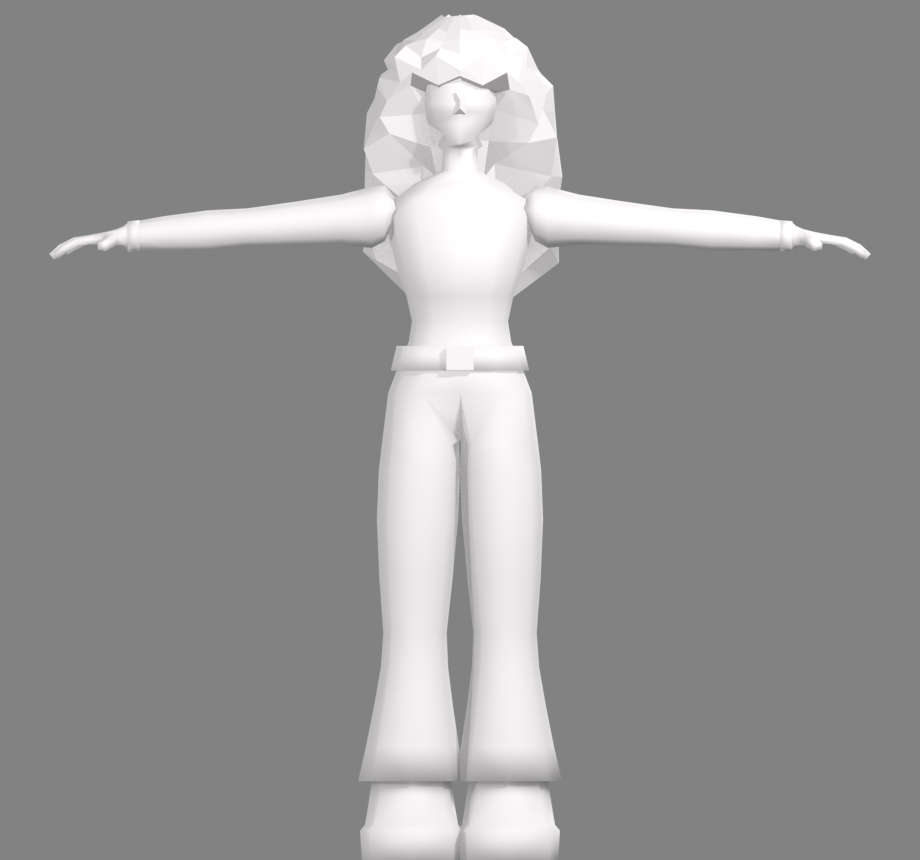
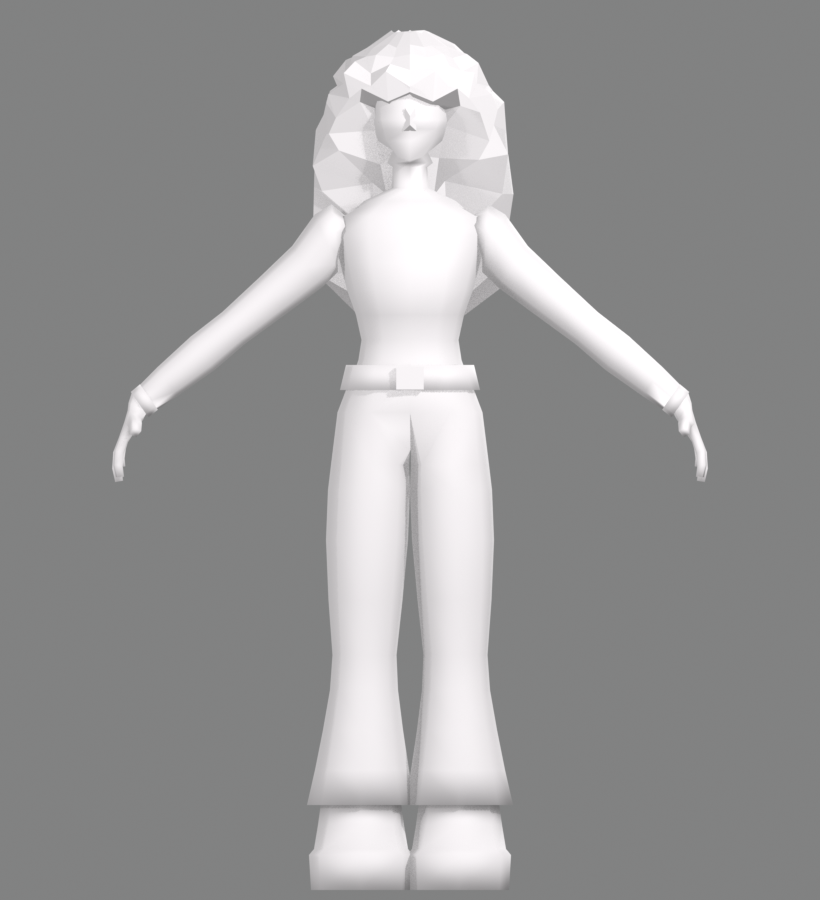
Pose the welded mesh: 35 deg arm drop + 25 deg wrist break, fix the seat fin, harden the harnesses
The two v2 reference bases ship A-pose, so the build now poses after the last weld: a per-ring drop of the arm about the shoulder socket and a rigid hand turn about the wrist seam, both before mirroring. The wrist break is what makes a hanging hand read as a hand.

Crotch points moved onto the buttock line: the old rear point sat 8 cm forward of the seat, so the buttock closed with an edge-on quad that rendered as a fin.

preview.py: relink lights/camera if the datablock lost its scene link (a leaked study scene once turned a render pass black), frame from both bbox dimensions, and stop rendering on import so importlib.reload does not triple-run the set.

diff --git a/scripts/preview.py b/scripts/preview.py
@@ -8,6 +8,7 @@ prop. Override SHOTS if you want specific framings.
 
     import bpy
     for f in ("scripts/psx_build.py", "scripts/preview.py"): ...
+    preview.run()
 """
 import bpy
 import math
@@ -44,6 +45,10 @@ def setup(sc):
         if not ob:
             ob = bpy.data.objects.new(name, light)
             sc.collection.objects.link(ob)
+        elif ob.name not in sc.objects:
+            # the light datablock can outlive its scene link (a leaked temp scene did
+            # this once) and every render then comes out black — relink it
+            sc.collection.objects.link(ob)
         ob.location = loc
         ob.rotation_euler = (V((0, 0, 1.1)) - V(loc)).to_track_quat("-Z", "Y").to_euler()
 
@@ -52,6 +57,7 @@ def shot(sc, name, center, ortho, azim, elev=0.0, res=(560, 860)):
     cam = bpy.data.objects.get("PrevCam")
     if not cam:
         cam = bpy.data.objects.new("PrevCam", bpy.data.cameras.new("PrevCam"))
+    if cam.name not in sc.objects:
         sc.collection.objects.link(cam)
     cam.data.type = "ORTHO"
     cam.data.ortho_scale = ortho
@@ -69,9 +75,11 @@ def shot(sc, name, center, ortho, azim, elev=0.0, res=(560, 860)):
     print("shot", name)
 
 
-def auto_shots(h):
+def auto_shots(h, w):
     res = (560, 860)
-    shots = [("body_" + nm, (0, 0, h * 0.5), h * 1.10, az, 0, res)
+    # ortho_scale follows the LONGER resolution side (here: height), so fit both dims
+    ortho = 1.10 * max(h, w * res[1] / res[0])
+    shots = [("body_" + nm, (0, 0, h * 0.5), ortho, az, 0, res)
              for nm, az in (("front", 0), ("side", 90), ("back", 180), ("q34", 35))]
     shots.append(("closeup_upper", (0, 0, h * 0.86), h * 0.34, 35, 0, (520, 600)))
     shots.append(("closeup_lower", (0, 0, h * 0.16), h * 0.34, 35, 0, (520, 600)))
@@ -85,6 +93,7 @@ def run():
     ob = bpy.data.objects[OBJECT]
     bb = [ob.matrix_world @ V(c) for c in ob.bound_box]
     h = max(p.z for p in bb) - min(p.z for p in bb)
+    w = max(p.x for p in bb) - min(p.x for p in bb)
 
     clay = bpy.data.materials.get("Clay") or bpy.data.materials.new("Clay")
     clay.use_nodes = True
@@ -93,11 +102,8 @@ def run():
     bsdf.inputs["Roughness"].default_value = 0.68
     sc.view_layers[0].material_override = clay
 
-    for s in (SHOTS if SHOTS is not None else auto_shots(h)):
+    for s in (SHOTS if SHOTS is not None else auto_shots(h, w)):
         shot(sc, *s)
 
     sc.view_layers[0].material_override = None
     print("preview ->", OUT)
-
-
-run()

diff --git a/SKILL.md b/SKILL.md
@@ -22,7 +22,10 @@ on silhouette and edge flow — never on surface detail.
 - One connected surface for the body: no loose vertices, no loose edges, no zero-area
   faces, no non-manifold edges, no coincident vertices. Quads for shells, triangles only
   where a shape needs them (joint bands, tips).
-- A T-pose body at rest, so the joints can be welded cleanly and a rig has room.
+- **Build** in a T-pose — level rings make every cut and weld trivial — then **pose the
+  finished, welded mesh** before saving: a rigid per-ring drop of the arms (35° about the
+  shoulder socket, ramped along the arm) and a rigid hand turn about the wrist seam (25°).
+  Every reference ships A-pose at rest, and a T-pose base reads as an unshipped blockout.
 
 Budgets from five reference models:
 
@@ -205,9 +208,10 @@ one part that should be allowed to be asymmetric — an identical mirror looks l
 8. **A single-apex pyramid is not a nose.** Read as a thin sliver from the front. Use a
    six-vertex wedge with a separate bridge point and tip point, base closed so the head
    stays watertight.
-9. **Frame the whole pose.** A T-pose spans about the character's height; an ortho scale
+9. **Frame the whole pose.** A wide pose spans about the character's height; an ortho scale
    that frames the torso crops the hands off and hides every hand problem. Set the render
-   width from the bbox, not from habit.
+   width from the bbox, not from habit — and re-frame after posing, because the bounds
+   move (1.86 ortho for the T-pose became 1.80 at 820 × 900 for the A-pose).
 10. **Normalise every direction vector** before scaling by a length. An unnormalised one
     produced a 1 m thumb.
 11. **`mirror_x` takes `(len(v), len(f))` from `mark()`**, reverses the mirrored winding,
@@ -224,13 +228,28 @@ one part that should be allowed to be asymmetric — an identical mirror looks l
     shot frames empty background.
 15. **Run the gate on geometry, not on the render.** A degenerate quad looks fine in a
     front view and wrecks the wireframe.
+16. **Pose the welded mesh, don't model it posed.** Build level (easy cuts, easy welds),
+    then rotate the finished blocks: an arm drop whose angle ramps along x, plus a rigid
+    hand turn about the wrist seam. Limb rings lie in planes of constant x, so a per-ring
+    angle cannot pinch a loop — the stitch bands take the rest, and mirroring *after*
+    posing gives the other side for free. The wrist break is what makes a hanging hand read
+    as a hand instead of a paddle continuing the forearm.
+17. **Crotch points belong in the cleft.** A rear crotch point sitting several cm forward of
+    the seat closes the buttock with a quad that folds edge-on and renders as a sharp fin
+    on the seat. Put it on the buttock line (y ≈ 0.07, z ≈ 0.89, front point mirrored in y)
+    and the seat closes with a small triangle instead.
+18. **Never let a temp study scene stay active.** A ref-study run that died between
+    `scenes.new()` and its cleanup left that scene active; the next build landed in it —
+    no lights, no camera — and a render pass came out black. Tear temp scenes down in a
+    `finally` at the call site, no global `orphans_purge`, and check the live scene's
+    object list afterwards.
 
 ## Review pass
 
 Render, then look, in this order:
 
 - **Close-ups first** — every seam at 0.20–0.32 ortho, two angles each. Joints are where
-  the errors are; a full-body shot at 1.86 ortho cannot show a 10 mm fold.
+  the errors are; a full-body shot at 1.80 ortho cannot show a 10 mm fold.
 - Body front / side / back / three-quarter at an ortho scale that fits the whole pose.
 - Hand and head separately, against the reference art at matched scale.
 - Wireframe or `check()` output next to every render pass.
@@ -240,8 +259,9 @@ material, UVs inside 0–1, object transform identity.
 
 ## Worked example — one real character
 
-A 1.72 m gothic girl, T-pose, mesh only, built and welded with this library:
-**1127 verts / 1223 faces / 2228 tris — 1003 quads, 225 tris, 0 n-gons, 0 boundary
+A 1.72 m gothic girl, mesh only, built and welded with this library in T-pose, then posed
+to A-pose (35° arm drop, 25° wrist break) after the last weld:
+**1127 verts / 1223 faces / 2228 tris — 1005 quads, 218 tris, 0 n-gons, 0 boundary
 edges, 0 non-manifold edges, 0 coincident verts.** Torso, pelvis, both legs, both boots,
 both arms, both hands, neck and head are one closed shell; the mane is a second closed
 shell.

diff --git a/README.md b/README.md
@@ -66,8 +66,8 @@ silhouette and where the surfaces meet, not on surface detail.
 
 | | |
 |---|---|
-| ![T-pose front](images/body_front.png) | ![three-quarter](images/body_q34.png) |
-| Front, 1.72 m, T-pose, 1127 v / 2228 tris | Three-quarter view |
+| ![A-pose front](images/body_front.png) | ![three-quarter](images/body_q34.png) |
+| Front, 1.72 m, A-pose (35° arm drop + 25° wrist break), 1127 v / 2228 tris | Three-quarter view |
 | ![profile](images/body_side.png) | ![head](images/head_q34.png) |
 | Profile — silhouette and hair mass | Head: smooth skull, faceted mane, stitched neck |
 | ![hand](images/hand_q34.png) | |
@@ -89,10 +89,10 @@ silhouette and where the surfaces meet, not on surface detail.
 ## The conventions it enforces
 
 +Z up · character faces −Y · feet on Z=0 · metres · one object · one material · one
-256²–512² atlas · smooth-shaded body with faceted hair · no normal maps, PBR or shape keys ·
-one welded surface — no coincident vertices, no boundary edges on the body, no
-non-manifold edges, no n-gons · 600–1600 tris for a bare body, more once hair and
-accessories are added.
+256²–512² atlas · A-pose at rest (built T-pose, arms posed after the welds) · smooth-shaded
+body with faceted hair · no normal maps, PBR or shape keys · one welded surface — no
+coincident vertices, no boundary edges on the body, no non-manifold edges, no n-gons ·
+600–1600 tris for a bare body, more once hair and accessories are added.
 
 ## License
 
